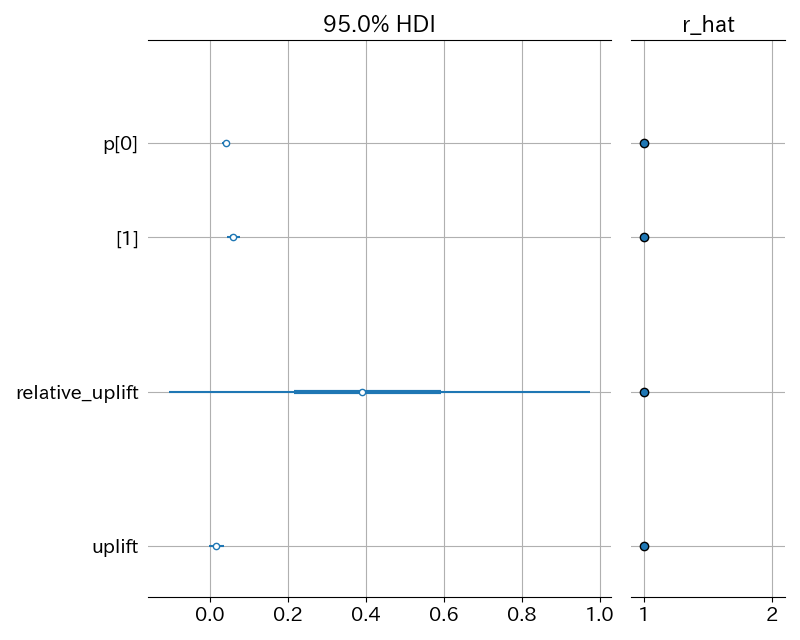
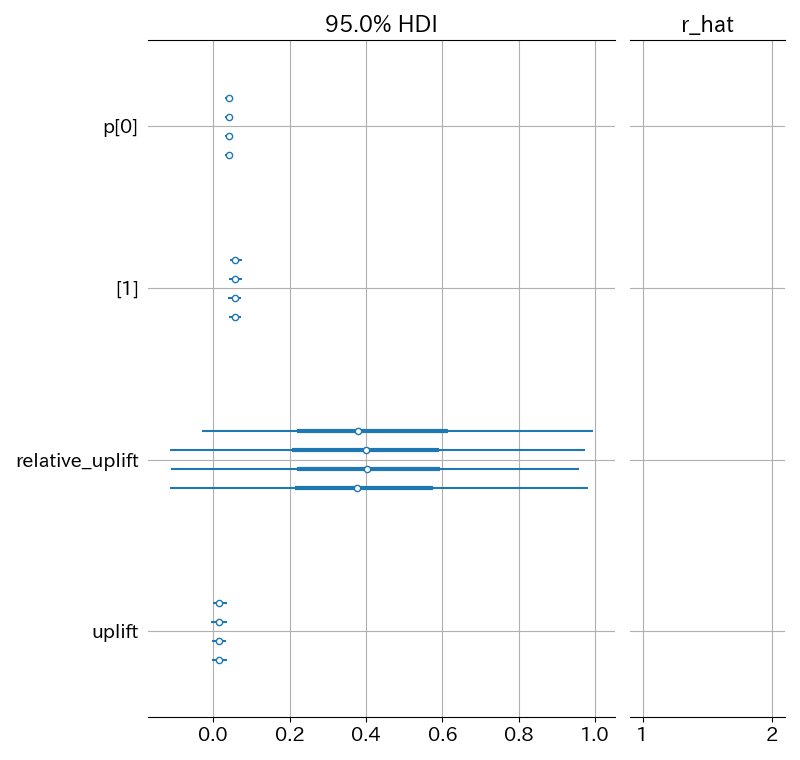
[update] modify carts

diff --git a/src/visualization/visualize.py b/src/visualization/visualize.py
@@ -397,7 +397,11 @@ def output_results(
     savefig(
         make_fig_from_axes(
             az.plot_forest(
-                trace, combined=False, hdi_prob=hdi_prob, r_hat=True
+                trace,
+                var_names=["p"],
+                combined=True,
+                hdi_prob=hdi_prob,
+                r_hat=True,
             ),
         ),
         Path(kwargs["figure_dir"]) / "forest.png",
